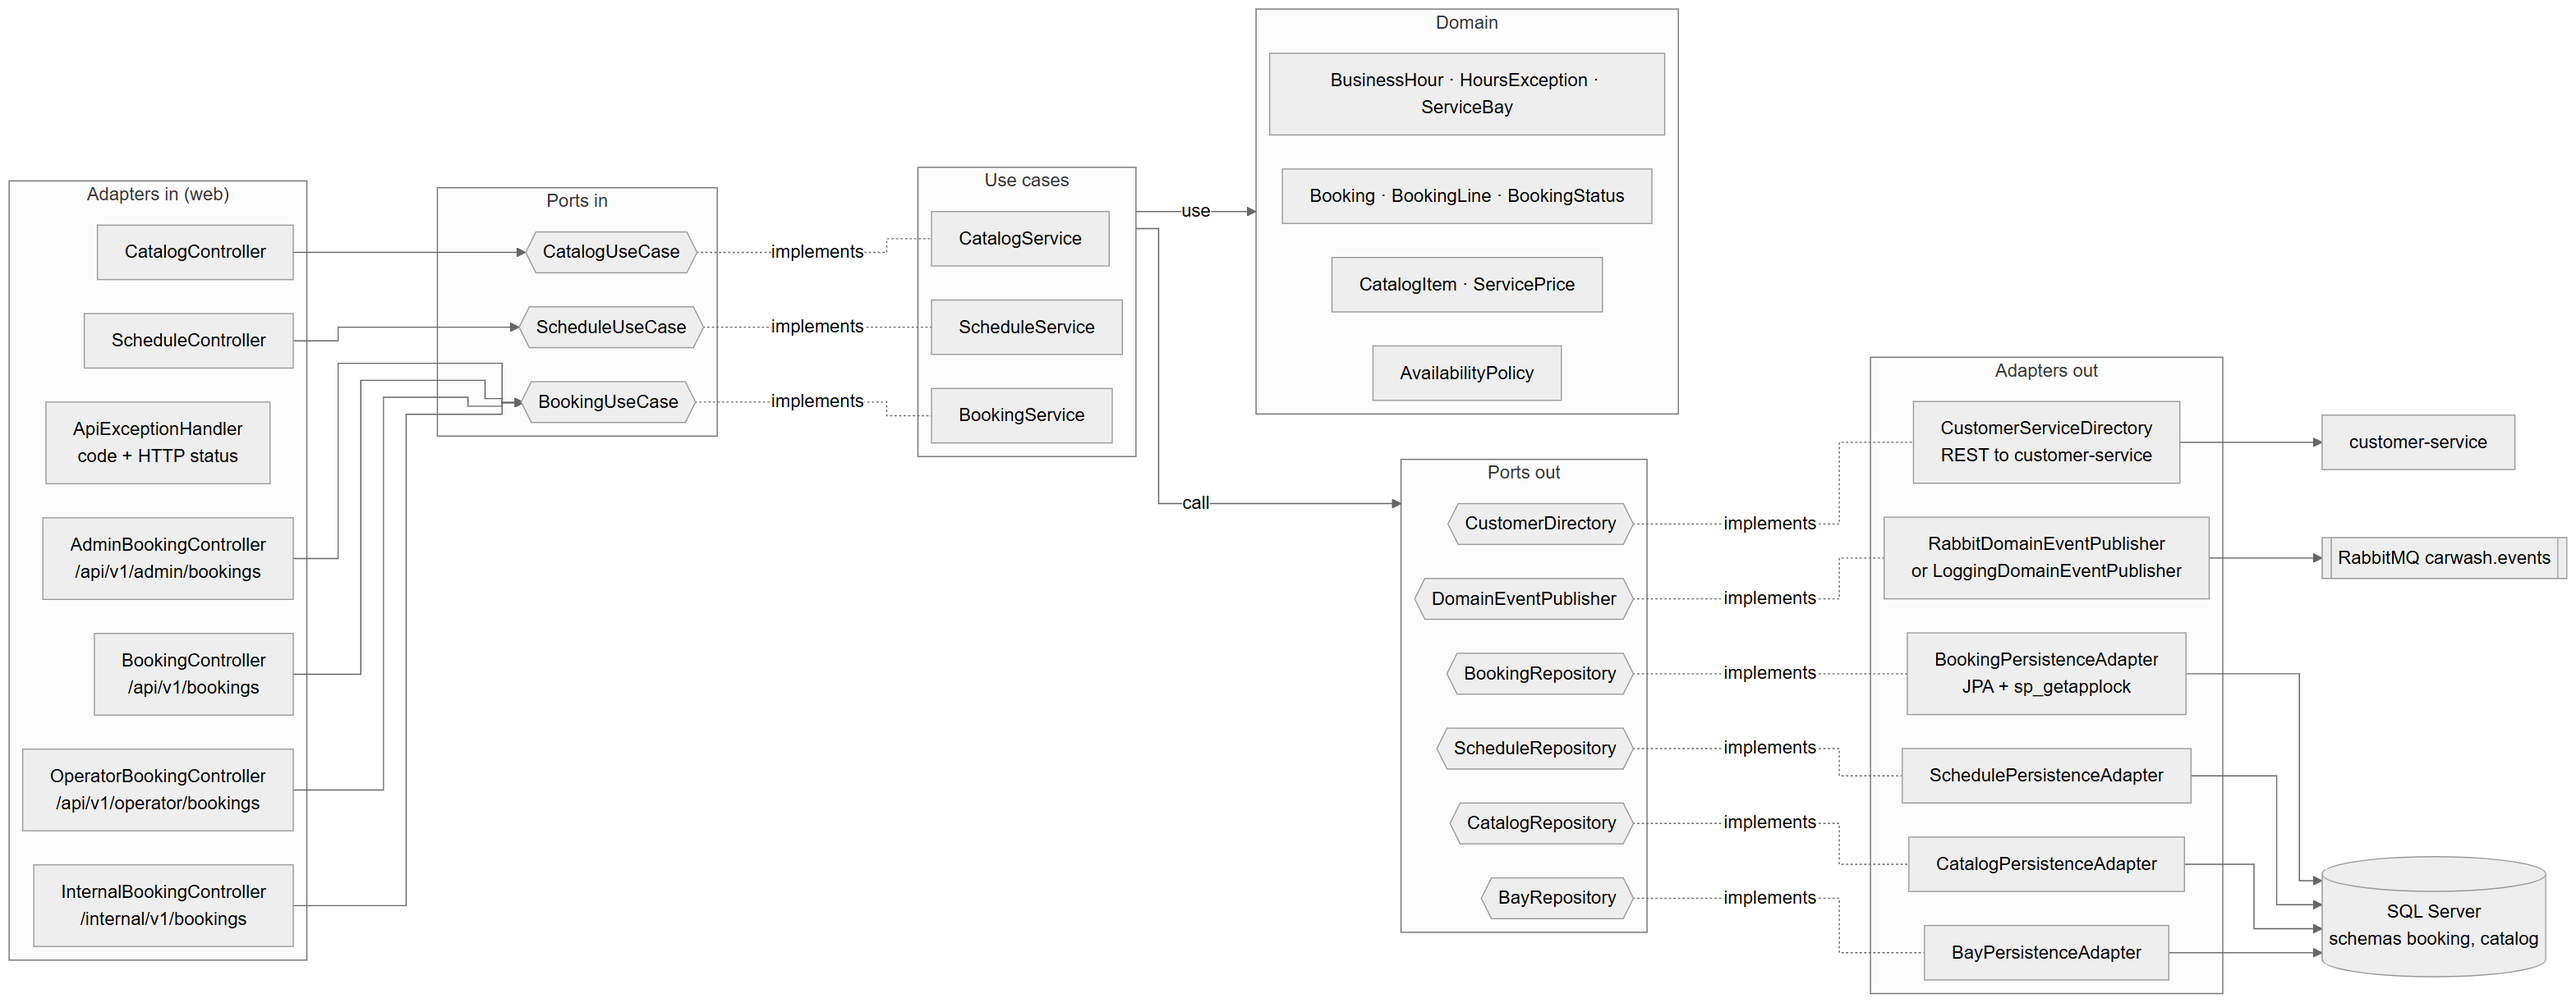
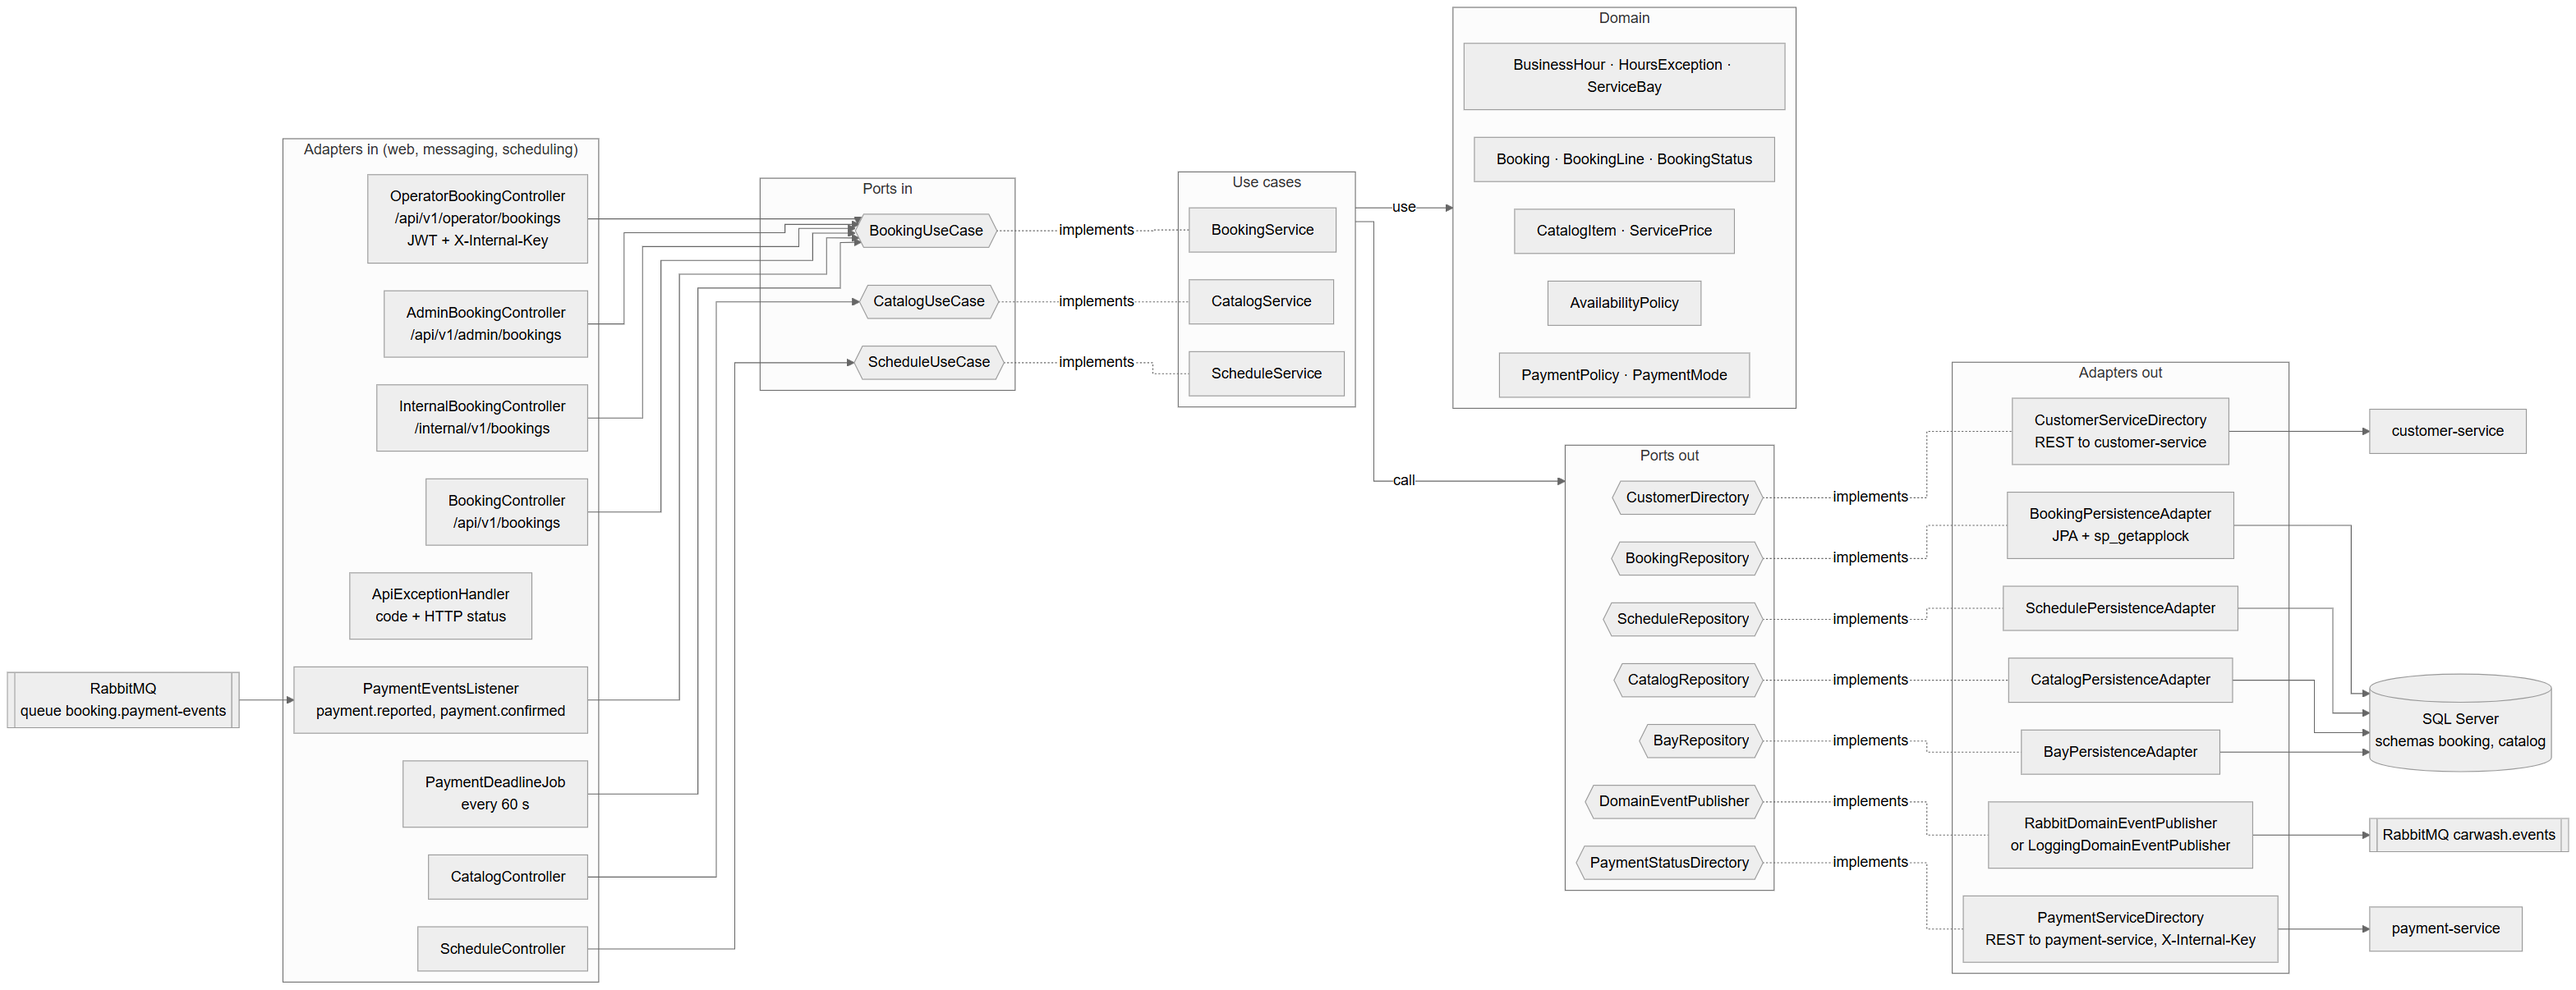
docs(uml): draw the payment events queue of booking without a crossing

diff --git a/08-uml/diagrams/source/c3-booking-components.md b/08-uml/diagrams/source/c3-booking-components.md
@@ -6,7 +6,7 @@ because it has every kind of adapter. ADR-002, ADR-009.
 
 ```mermaid
 flowchart LR
-    subgraph IN["Adapters in (web)"]
+    subgraph IN["Adapters in (web, messaging, scheduling)"]
         BC[BookingController<br/>/api/v1/bookings]
         ABC[AdminBookingController<br/>/api/v1/admin/bookings]
         OBC[OperatorBookingController<br/>/api/v1/operator/bookings<br/>JWT + X-Internal-Key]
@@ -14,7 +14,7 @@ flowchart LR
         CC[CatalogController]
         SC[ScheduleController]
         EH[ApiExceptionHandler<br/>code + HTTP status]
-        PEL[PaymentEventsListener<br/>queue booking.payment-events]
+        PEL[PaymentEventsListener<br/>payment.reported, payment.confirmed]
         PDJ[PaymentDeadlineJob<br/>every 60 s]
     end
 
@@ -62,6 +62,7 @@ flowchart LR
     customer[customer-service]
     payment[payment-service]
     mq[[RabbitMQ carwash.events]]
+    mqin[[RabbitMQ<br/>queue booking.payment-events]]
 
     BC & ABC & OBC & IBC & PEL & PDJ --> BU
     CC --> CU
@@ -81,7 +82,7 @@ flowchart LR
     BPA & BAPA & CPA & SPA --> db
     CSD --> customer
     RP --> mq
-    mq --> PEL
+    mqin --> PEL
     PSA --> payment
 ```
 
